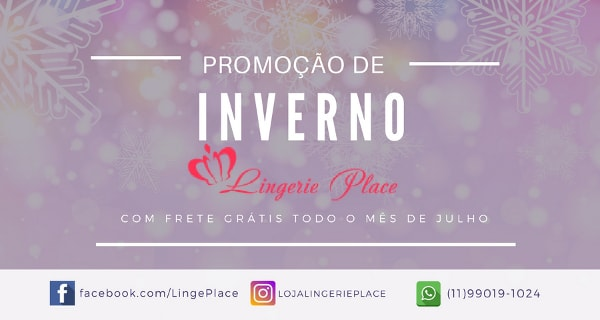
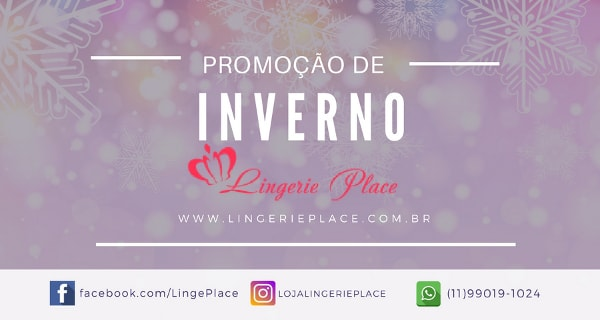
ajustes nas campanhas

Changed region(s): [[0.21, 0.6562, 0.72, 0.7188], [0.75, 0.6562, 0.81, 0.6875]]

diff --git a/htm/Home.htm b/htm/Home.htm
@@ -11,10 +11,6 @@
           <li data-target="#carouselLP" data-slide-to="1"></li>
 
           <li data-target="#carouselLP" data-slide-to="2"></li>
-          
-          <li data-target="#carouselLP" data-slide-to="3"></li>
-
-          <li data-target="#carouselLP" data-slide-to="4"></li>
       </ol>
       
       <div class="carousel-inner">
@@ -22,13 +18,7 @@
             <img width="1400px" height="425px" class="img-fluid slide-image image-responsive" src="https://www.rumo.com.br/lojas/000<IDLojaNum>/images/banner-encanto-min.jpg">
         </div>
         <div class="item">
-            <img width="1400px" height="425px" class="img-fluid slide-image image-responsive" src="https://www.rumo.com.br/lojas/000<IDLojaNum>/images/banner-namorados-min.jpg">
-        </div>
-        <div class="item">
-            <img width="1400px" height="425px" class="img-fluid slide-image image-responsive" src="https://www.rumo.com.br/lojas/000<IDLojaNum>/images/banner-promo-namo-min.jpg">
-        </div>
-        <div class="item">
-            <img width="1400px" height="425px" class="img-fluid slide-image image-responsive" src="https://www.rumo.com.br/lojas/000<IDLojaNum>/images/banner-frete-min.jpg">
+            <img width="1400px" height="425px" class="img-fluid slide-image image-responsive" src="https://www.rumo.com.br/lojas/000<IDLojaNum>/images/banner-inverno-min.jpg">
         </div>
         <div class="item">
             <img width="1400px" height="425px" class="img-fluid slide-image image-responsive" src="https://www.rumo.com.br/lojas/000<IDLojaNum>/images/banner-redes-min.jpg">
@@ -57,10 +47,6 @@
           <li data-target="#carouselLP-small" data-slide-to="1"></li>
 
           <li data-target="#carouselLP-small" data-slide-to="2"></li>
-          
-          <li data-target="#carouselLP-small" data-slide-to="3"></li>
-
-          <li data-target="#carouselLP-small" data-slide-to="4"></li>
       </ol>
       
      <div class="carousel-inner">
@@ -68,13 +54,7 @@
             <img width="900px" height="450px" class="img-fluid slide-image image-responsive" src="https://www.rumo.com.br/lojas/000<IDLojaNum>/images/banner-encanto-mobile-min.jpg">
         </div>
         <div class="item">
-            <img width="900px" height="450px" class="img-fluid slide-image image-responsive" src="https://www.rumo.com.br/lojas/000<IDLojaNum>/images/banner-namorados-mobile-min.jpg">
-        </div>
-        <div class="item">
-            <img width="900px" height="450px" class="img-fluid slide-image image-responsive" src="https://www.rumo.com.br/lojas/000<IDLojaNum>/images/banner-promo-namo-mobile-min.jpg">
-        </div>
-        <div class="item">
-            <img width="900px" height="450px" class="img-fluid slide-image image-responsive" src="https://www.rumo.com.br/lojas/000<IDLojaNum>/images/banner-frete-mobile-min.jpg">
+            <img width="900px" height="450px" class="img-fluid slide-image image-responsive" src="https://www.rumo.com.br/lojas/000<IDLojaNum>/images/banner-inverno-mobile-min.jpg">
         </div>
         <div class="item">
             <img width="900px" height="450px" class="img-fluid slide-image image-responsive" src="https://www.rumo.com.br/lojas/000<IDLojaNum>/images/banner-redes-mobile-min.jpg">
